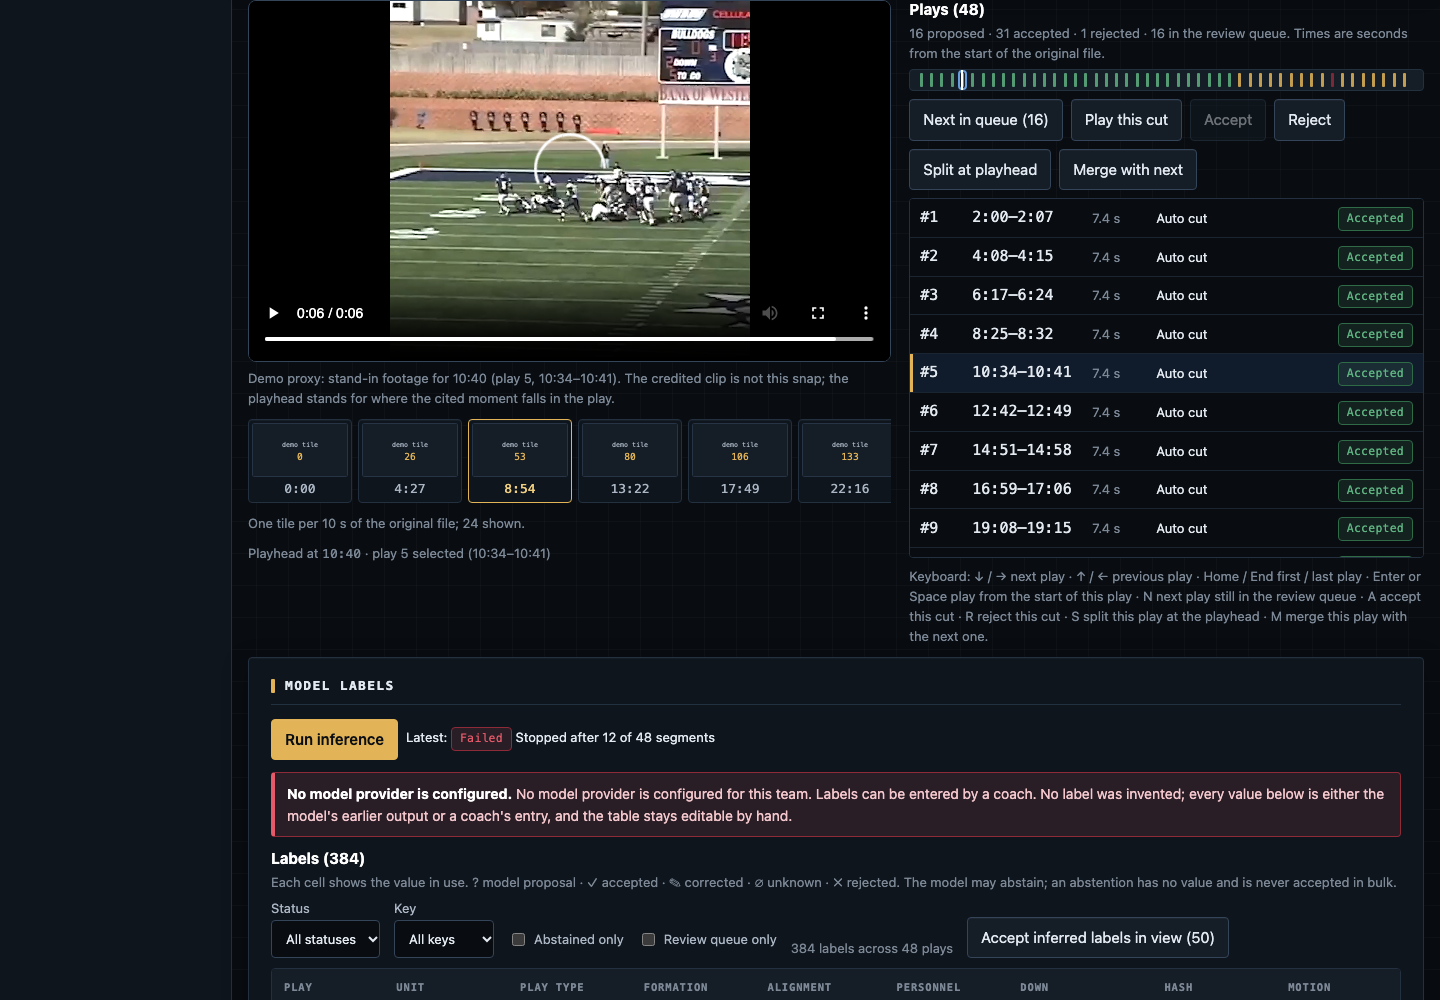
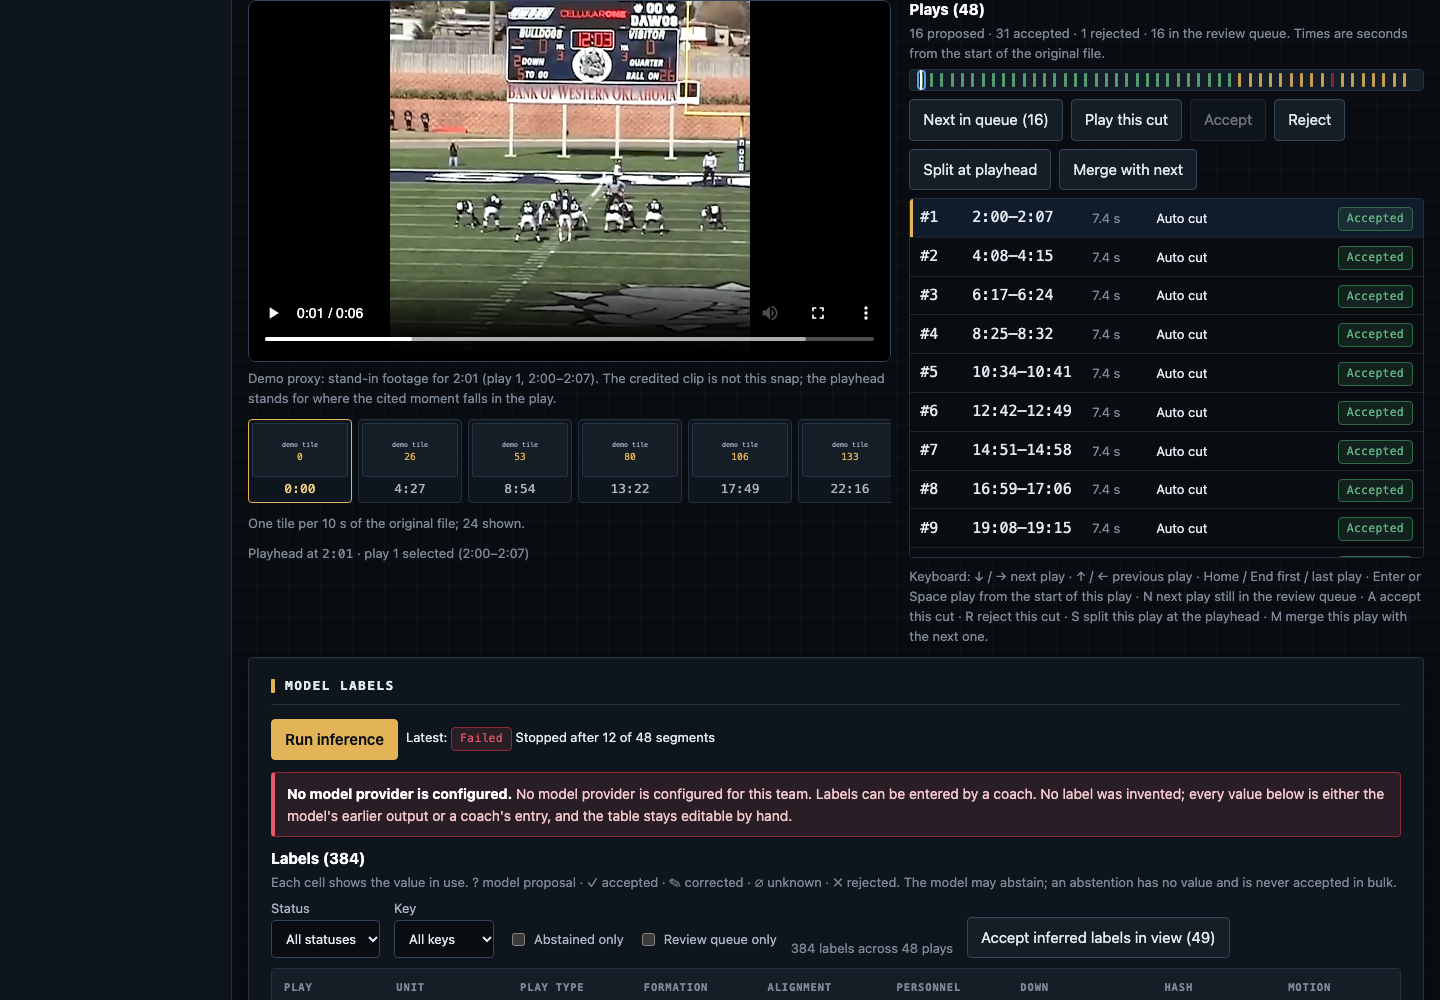
OC-11 HC-16 OC-15 PC-01 HC-15: evidence cites label-backed plays and selects the cut; Submit waits for Add-field text
Round-2 follow-ups on iteration-1 surfaces.

OC-11: seeded scouting evidence now cites only plays whose seeded labels
support the claim on the finding's basis (reviewed labels for reviewed-only
findings), names the supporting labels in the link note and lists the plays
in includedSegmentIds; play 7's formation is accepted by the coordinator so
two reviewed trips plays exist; the 12-personnel finding becomes an
11-personnel finding, which is what the reviewed plays show. The defensive
and special-teams findings have no labeled plays in the seed and now read
"No supporting play on file" instead of citing unlabeled plays.

HC-16 OC-15 PC-01: following any evidence link, frame timestamp or
scouting ?t= selects the play that contains the cited time, so Accept,
Reject and Split act on the play being looked at.

HC-15: Submit for review stays disabled while text is still in an Add field
and says why; HC-07 copy: routing to the existing draft no longer shows
"Draft created".

Tests updated for the new seed (bulk-accept 49, evidence links 2:01 / play 1,
label-support rule per finding) and the seek selection; evidence screenshots
regenerated with the updated walk.

diff --git a/apps/web/src/tests/iteration1/evidenceLinks.test.tsx b/apps/web/src/tests/iteration1/evidenceLinks.test.tsx
@@ -40,6 +40,26 @@ describe('mechanism 2 · evidence links land on the cited snap', () => {
     }
     // The scouting cards' supporting and contrary examples all cite a seeded play: none is between plays.
     for (const f of demo.findings) for (const e of [...f.supportingEvidence, ...f.contraryEvidence]) expect(segmentAt(demo.segments, e.atSec), `${f.id} ${e.atSec}`).not.toBeNull();
+    // OC-11: a cited play carries seeded labels that support the claim on the finding's basis, and is listed as included.
+    const labelOf = (segmentId: string, key: string) => demo.labels.find((l) => l.segmentId === segmentId && l.key === key)!;
+    const reviewed = (l: { accepted: { status: string } }) => l.accepted.status === 'accepted' || l.accepted.status === 'corrected';
+    const support: Record<string, (segmentId: string, contrary: boolean) => boolean> = {
+      'f-1': (id) => reviewed(labelOf(id, 'formation_family')) && /^trips_/.test(labelOf(id, 'formation_family').accepted.value ?? ''),
+      'f-2': (id, contrary) => (labelOf(id, 'play_type').accepted.value ?? labelOf(id, 'play_type').inferred?.value) === (contrary ? 'pass' : 'run'),
+      'f-3': (id) => reviewed(labelOf(id, 'play_type')) && labelOf(id, 'play_type').accepted.value === 'pass' && reviewed(labelOf(id, 'personnel_estimate')) && labelOf(id, 'personnel_estimate').accepted.value === '11',
+    };
+    for (const f of demo.findings) {
+      for (const [list, contrary] of [[f.supportingEvidence, false], [f.contraryEvidence, true]] as const) {
+        for (const e of list) {
+          const play = segmentAt(demo.segments, e.atSec)!;
+          expect(f.includedSegmentIds, `${f.id} lists ${play.id}`).toContain(play.id);
+          expect(support[f.id], `${f.id} has a label rule`).toBeDefined();
+          expect(support[f.id](play.id, contrary), `${f.id} ${contrary ? 'contrary' : 'supporting'} ${play.id} is backed by its labels`).toBe(true);
+        }
+      }
+      // Reviewed-only findings cite only plays with reviewed labels; findings with no labeled plays cite nothing.
+      if (f.unit !== 'offense') expect(f.supportingEvidence.length + f.contraryEvidence.length, `${f.id} has no labeled plays`).toBe(0);
+    }
     // A moment no play covers is refused, never seeked silently.
     expect(planSeek(100, demo.segments, proxy)).toMatchObject({ kind: 'unavailable', mediaSec: null });
     // A real proxy shorter than the request is refused too; one that covers it seeks straight there.
@@ -59,11 +79,13 @@ describe('mechanism 2 · evidence links land on the cited snap', () => {
     expect(within(card(/rotate the safety late/)).getByTestId('no-supporting-play')).toHaveTextContent('No supporting play on file');
     const off = card(/boundary corner plays off coverage/);
     expect(within(off).getByTestId('no-supporting-play')).toHaveTextContent('No supporting play on file');
-    expect(within(off).getByTestId('contrary-evidence')).toHaveTextContent(/Against: 85:33 Press at the goal line/);
-    // The even-front card does have support, as a link to the play.
-    const even = card(/even front/);
-    expect(within(even).queryByTestId('no-supporting-play')).not.toBeInTheDocument();
-    expect(within(even).getByRole('link', { name: '10:40' })).toBeInTheDocument();
+    // No defensive play carries labels in the seed, so no defensive card may look backed (OC-11): the even-front card says so too.
+    expect(within(off).queryByTestId('contrary-evidence')).not.toBeInTheDocument();
+    expect(within(card(/even front/)).getByTestId('no-supporting-play')).toHaveTextContent('No supporting play on file');
+    // Offense findings do have support, as links to plays whose reviewed labels back them.
+    await user.click(screen.getByRole('button', { name: /^Their offense$/ }));
+    await waitFor(() => expect(card(/trips formation on first down/)).toBeInTheDocument());
+    expect(within(card(/trips formation on first down/)).getByTestId('supporting-evidence')).toHaveTextContent(/2:01 Formation trips_right \(accepted\), down 1 \(corrected\)/);
   });
 
   describe('player', () => {
@@ -78,20 +100,21 @@ describe('mechanism 2 · evidence links land on the cited snap', () => {
 
     const video = () => document.querySelector('video') as HTMLVideoElement;
 
-    it('OC-02: the 10:40 even-front link selects play 5 and the player names the moment the clip stands for', async () => {
+    it('OC-02: a scouting evidence link selects the cited play and the player names the moment the clip stands for', async () => {
       const user = userEvent.setup();
-      const { router } = renderApp('/app/scouting?unit=defense&game=game-w10', { signedInAs: OC });
+      const { router } = renderApp('/app/scouting?unit=offense&game=game-w10', { signedInAs: OC });
       await screen.findAllByTestId('finding-count');
-      await user.click(screen.getByRole('link', { name: '10:40' }));
+      // The trips finding's first example: 2:01, inside play 1 (2:00–2:07), whose reviewed formation is trips_right.
+      await user.click(screen.getByRole('link', { name: '2:01' }));
       await waitFor(() => expect(router.state.location.pathname).toBe('/app/film/asset-westmoor-1'));
       await screen.findByTestId('segment-counts');
       const list = screen.getByRole('listbox', { name: /Plays on this film/ });
-      expect(within(list).getByRole('option', { selected: true })).toHaveTextContent(/#5/);
+      expect(within(list).getByRole('option', { selected: true })).toHaveTextContent(/#1/);
       const notice = await screen.findByTestId('seek-notice');
-      await waitFor(() => expect(notice).toHaveTextContent(/stand-in footage for 10:40 \(play 5, 10:34–10:41\)/));
+      await waitFor(() => expect(notice).toHaveTextContent(/stand-in footage for 2:01 \(play 1, 2:00–2:07\)/));
       expect(notice).toHaveTextContent(/credited clip is not this snap/);
-      expect(screen.getByTestId('playhead')).toHaveTextContent(/Playhead at 10:40 · play 5 selected/);
-      // The clip was seeked to the proportional position of 10:40 inside the play, not left at 0:00 or its end.
+      expect(screen.getByTestId('playhead')).toHaveTextContent(/Playhead at 2:01 · play 1 selected/);
+      // The clip was seeked to 1.5 s into the play, not left at 0:00 or its end.
       await waitFor(() => expect(media.play).toHaveBeenCalled());
       expect(video().currentTime).toBeGreaterThan(0);
       expect(video().currentTime).toBeLessThan(LONGEST_CLIP);
@@ -111,7 +134,9 @@ describe('mechanism 2 · evidence links land on the cited snap', () => {
       await user.click(within(panel).getByRole('button', { name: /^10:35–10:38$/ }));
       expect(within(panel).getByTestId('evidence-seek-note')).toHaveTextContent(/Stand-in footage: 10:35 \(play 5, 10:34–10:41\)/);
       expect(screen.getByTestId('seek-notice')).toHaveTextContent(/stand-in footage for 10:35 \(play 5/);
-      expect(screen.getByTestId('playhead')).toHaveTextContent(/Playhead at 10:35/);
+      // Following the evidence also selects play 5, so the cut controls act on the play being looked at (HC-16, OC-15, PC-01).
+      expect(screen.getByTestId('playhead')).toHaveTextContent(/Playhead at 10:35 · play 5 selected \(10:34–10:41\)/);
+      expect(within(screen.getByRole('listbox', { name: /Plays on this film/ })).getByRole('option', { selected: true })).toHaveTextContent(/#5/);
 
       // Play this cut on cut 32: 68:23, not 0:00 of an unrelated clip.
       const list = screen.getByRole('listbox', { name: /Plays on this film/ });

diff --git a/apps/web/src/api/mock/data.ts b/apps/web/src/api/mock/data.ts
@@ -246,6 +246,7 @@ export const segments: PlaySegment[] = Array.from({ length: 48 }, (_, i) => {
 const ev = (atSec: number, note: string | null = null) => ({ assetId: 'asset-westmoor-1', atSec, toSec: null, frameIndex: null, note });
 /** A moment inside seeded play `index` (plays start at 120 s and repeat every 128.5 s; see `segments`). */
 export const snapSec = (index: number, offsetSec = 1.5) => Math.round((120 + (index - 1) * 128.5 + offsetSec) * 10) / 10;
+const seg = (index: number) => `seg-westmoor-1-${index}`;
 
 function finding(
   id: string,
@@ -267,20 +268,30 @@ function finding(
 }
 
 export const findings: ScoutingFinding[] = [
+  // Authored findings (the mock does not compute them). Every cited play carries seeded labels that
+  // support the claim on the stated basis (iteration 1 follow-up, OC-11): a reviewed-only finding
+  // cites only plays whose relevant labels are accepted or corrected. The defensive and special-teams
+  // findings have no labeled plays in the seed and say so on the card.
   finding('f-1', 'opp-westmoor', 'offense', 'formation_frequency', 'Westmoor lines up in a trips formation on first down.', 19, 54, 'reviewed_only', {
-    supportingEvidence: [ev(snapSec(2), 'Trips right, 1st and 10'), ev(snapSec(15), 'Trips left, 1st and 10')],
+    supportingEvidence: [ev(snapSec(1), 'Formation trips_right (accepted), down 1 (corrected)'), ev(snapSec(7), 'Formation trips_right (accepted by the coordinator)')],
+    includedSegmentIds: [seg(1), seg(7)],
     excludedSegmentIds: ['seg-westmoor-1-33', 'seg-westmoor-1-34'], excludedReason: { 'seg-westmoor-1-33': 'formation label not reviewed', 'seg-westmoor-1-34': 'far-side receivers hidden' },
   }),
   finding('f-2', 'opp-westmoor', 'offense', 'tendency_by_situation', 'On second down with 3 yards or fewer to go, Westmoor runs the ball.', 9, 11, 'includes_inferred', {
-    supportingEvidence: [ev(snapSec(19, 2.0), '2nd and 2, inside zone')], contraryEvidence: [ev(snapSec(31, 2.0), '2nd and 1, quick pass to the flat')],
+    supportingEvidence: [ev(snapSec(5, 2.0), 'Play type run (model label, unreviewed)'), ev(snapSec(8, 2.0), 'Play type run (model label, unreviewed)')],
+    contraryEvidence: [ev(snapSec(9, 2.0), 'Play type pass (model label, unreviewed)')],
+    includedSegmentIds: [seg(5), seg(8), seg(9)],
   }),
-  finding('f-3', 'opp-westmoor', 'offense', 'play_type_by_formation', 'From 12 personnel, Westmoor passes.', 6, 17, 'reviewed_only', { supportingEvidence: [ev(snapSec(26))] }),
+  finding('f-3', 'opp-westmoor', 'offense', 'play_type_by_formation', 'From 11 personnel, Westmoor passes.', 6, 17, 'reviewed_only', {
+    supportingEvidence: [ev(snapSec(2), 'Play type pass (accepted), personnel 11 (accepted)'), ev(snapSec(3), 'Play type pass (corrected by the coordinator), personnel 11 (accepted)')],
+    includedSegmentIds: [seg(2), seg(3)],
+  }),
   finding('f-4', 'opp-westmoor', 'offense', 'uncertain', 'Westmoor may favour screens on third and long; the sample is too small to call a tendency.', 3, 7, 'includes_inferred', {
     excludedReason: { 'seg-westmoor-1-41': 'down and distance not visible' }, excludedSegmentIds: ['seg-westmoor-1-41'],
   }),
-  finding('f-5', 'opp-westmoor', 'defense', 'formation_frequency', 'Against 11 personnel, Westmoor shows an even front.', 31, 44, 'reviewed_only', { supportingEvidence: [ev(640.0)] }),
+  finding('f-5', 'opp-westmoor', 'defense', 'formation_frequency', 'Against 11 personnel, Westmoor shows an even front.', 31, 44, 'reviewed_only'),
   finding('f-6', 'opp-westmoor', 'defense', 'strength', 'Westmoor brings a fifth rusher on third and 7 or more.', 8, 13, 'includes_inferred'),
-  finding('f-7', 'opp-westmoor', 'defense', 'weakness', 'The boundary corner plays off coverage against a single receiver.', 14, 22, 'reviewed_only', { contraryEvidence: [ev(snapSec(40), 'Press at the goal line')] }),
+  finding('f-7', 'opp-westmoor', 'defense', 'weakness', 'The boundary corner plays off coverage against a single receiver.', 14, 22, 'reviewed_only'),
   finding('f-8', 'opp-westmoor', 'defense', 'uncertain', 'Westmoor may rotate the safety late toward trips; the camera framing hides the far safety on most of these snaps.', 4, 9, 'includes_inferred', {
     excludedReason: { 'seg-westmoor-1-12': 'far safety outside the frame' }, excludedSegmentIds: ['seg-westmoor-1-12'],
   }),
@@ -531,6 +542,8 @@ function acceptedFor(segmentIndex: number, key: LabelKey, inferred: Label['infer
   }
   // Segment 5: one label rejected as unusable.
   if (i === 4 && key === 'hash') return { value: null, status: 'rejected', byUserId: 'user-analyst', at: REVIEWED_AT };
+  // Segment 7: the coordinator accepted the trips_right formation while building the scouting report.
+  if (i === 6 && key === 'formation_family') return { value: inferred.value, status: 'accepted', byUserId: 'user-oc', at: REVIEWED_AT };
   // Everything else is still the model's proposal.
   return { value: inferred.value, status: 'inferred', byUserId: null, at: null };
 }

diff --git a/apps/web/src/tests/film/assetPage.test.tsx b/apps/web/src/tests/film/assetPage.test.tsx
@@ -168,15 +168,15 @@ describe('asset view: timeline, split/merge, labels, provenance, inference', () 
     const user = userEvent.setup();
     const { router } = renderApp('/app/scouting?unit=offense&game=game-w10', { signedInAs: HEAD });
     await screen.findAllByTestId('finding-count');
-    await user.click(screen.getByRole('link', { name: '4:10' }));
+    await user.click(screen.getByRole('link', { name: '2:01' }));
     await waitFor(() => expect(router.state.location.pathname).toBe('/app/film/asset-westmoor-1'));
-    expect(router.state.location.search).toMatch(/t=250/);
+    expect(router.state.location.search).toMatch(/t=121\.5/);
     await screen.findByTestId('segment-counts');
     const list = screen.getByRole('listbox', { name: /Plays on this film/ });
-    // 250 s is inside play 2 (4:08–4:15): that play is selected and the stand-in clip is mapped onto it.
-    expect(within(list).getByRole('option', { selected: true })).toHaveTextContent(/#2/);
+    // 121.5 s is inside play 1 (2:00–2:07): that play is selected and the stand-in clip is mapped onto it.
+    expect(within(list).getByRole('option', { selected: true })).toHaveTextContent(/#1/);
     await waitFor(() => expect(media.play).toHaveBeenCalled());
-    expect(screen.getByTestId('seek-notice')).toHaveTextContent(/stand-in footage for 4:10 \(play 2, 4:08–4:15\)/);
+    expect(screen.getByTestId('seek-notice')).toHaveTextContent(/stand-in footage for 2:01 \(play 1, 2:00–2:07\)/);
   });
 
   it('film page: a chunked upload runs against the mock, polling shows the chain complete, and the asset appears', async () => {

diff --git a/apps/web/src/pages/PlansPage.tsx b/apps/web/src/pages/PlansPage.tsx
@@ -294,7 +294,12 @@ function PlanBody({
             </>
           ) : null}
           {editable ? (
-            <button type="button" disabled={dirty || submit.status === 'saving'} onClick={() => void submit.run(version)} title={dirty ? 'Save the draft first' : undefined}>
+            <button
+              type="button"
+              disabled={dirty || pendingAddFields > 0 || submit.status === 'saving'}
+              onClick={() => void submit.run(version)}
+              title={dirty ? 'Save the draft first' : pendingAddFields > 0 ? 'Add or clear the text still in an Add field first' : undefined}
+            >
               Submit for review
             </button>
           ) : null}
@@ -312,7 +317,7 @@ function PlanBody({
           <SaveStatus status={save.status} error={save.error} />
           <SaveStatus status={submit.status} error={submit.error} savedText="Submitted for review" />
           <SaveStatus status={approve.status} error={approve.error} savedText="Approved" />
-          <SaveStatus status={newDraft.status} error={newDraft.error} savedText="Draft created" />
+          <SaveStatus status={newDraft.status} error={newDraft.error} savedText={routed ? 'Opened the existing draft' : 'Draft created'} />
         </div>
         {approving && isOverride && (version.status === 'in_review' || version.status === 'draft') ? (
           <form

diff --git a/apps/web/src/tests/iteration1/unsavedWork.test.tsx b/apps/web/src/tests/iteration1/unsavedWork.test.tsx
@@ -75,6 +75,13 @@ describe('mechanism 1 · unsaved-work guard', () => {
     expect(add()).toHaveValue('Gold');
     expect(screen.getByTestId('unsaved-indicator')).toHaveTextContent(/Unsaved changes · 1 Add field not added/);
     expect(screen.queryByRole('button', { name: /^Draft saved$/ })).not.toBeInTheDocument();
+    // Submit cannot quietly drop the text still in the Add field (HC-15): saving the draft alone does not unlock it.
+    expect(screen.getByRole('button', { name: /Submit for review/ })).toBeDisabled();
+    await user.click(screen.getByRole('button', { name: /^Save draft$/ }));
+    await waitFor(() => expect(screen.getByRole('button', { name: /^Draft saved$/ })).toBeInTheDocument());
+    expect(add()).toHaveValue('Gold');
+    expect(screen.getByRole('button', { name: /Submit for review/ })).toBeDisabled();
+    expect(screen.getByRole('button', { name: /Submit for review/ })).toHaveAttribute('title', 'Add or clear the text still in an Add field first');
   });
 
   it('PC-05: an unposted Formations comment and its section are back after following film and returning', async () => {

diff --git a/apps/web/src/tests/film/review.test.ts b/apps/web/src/tests/film/review.test.ts
@@ -31,9 +31,10 @@ describe('§14.5 bulk-accept rule', () => {
     expect(plan.keys).toEqual(['play_type']);
   });
 
-  it('matches the demo data: 50 acceptable labels, every abstention skipped', () => {
+  it('matches the demo data: 49 acceptable labels, every abstention skipped', () => {
+    // 12 plays × 8 keys minus abstentions, the 4 fully reviewed plays, play 5's rejected hash and play 7's accepted formation.
     const plan = planBulkAccept(demo.labels);
-    expect(plan.eligible.length).toBe(50);
+    expect(plan.eligible.length).toBe(49);
     expect(plan.eligible.every((l) => l.inferred && !l.inferred.abstained && l.accepted.status === 'inferred')).toBe(true);
     expect(demo.labels.filter((l) => l.inferred?.abstained).every((l) => !isBulkAcceptable(l))).toBe(true);
   });

diff --git a/apps/web/src/pages/AssetPage.tsx b/apps/web/src/pages/AssetPage.tsx
@@ -138,6 +138,8 @@ export function AssetPage() {
       if (plan.mediaSec !== null) {
         player.current?.seekTo(plan.mediaSec, play);
         setCurrentTime(sec);
+        // The cut controls act on the play being looked at: following evidence selects its play (HC-16, OC-15, PC-01).
+        if (plan.segment) setActiveId(plan.segment.id);
       }
       setSeekPlan(plan);
       return plan;

diff --git a/docs/team/briefs/I1-evidence/README.md b/docs/team/briefs/I1-evidence/README.md
@@ -2,12 +2,12 @@
 
 One screenshot per mechanism from a walk of the round-1 reviewer sequences against the
 web app in mock mode (`npm run dev -w apps/web`, `VITE_API_MODE=mock`, demo head-coach
-account), captured on 2026-11-21 on this branch. Every record shown is fictional demo data.
+account), captured on this branch (regenerated 2026-11-22 after the round-2 follow-ups). Every record shown is fictional demo data.
 
 | File | Mechanism | Sequence walked | What the screenshot shows |
 | --- | --- | --- | --- |
 | `m1-unsaved-work-guard-HC-01.png` | 1 · unsaved-work guard | HC-01: add a third objective to offense v2, switch to Special teams without Save draft, switch back | Objectives (3) with the Sunday protection check still listed, **Save draft** enabled, the "Unsaved changes" tag and a Discard link; the page no longer says "Draft saved". |
-| `m2-evidence-links-OC-02.png` | 2 · evidence links | OC-02 / HC-05: on Opponent Scouting (Westmoor defense) follow the 10:40 link under the even-front finding | Play 5 (10:34–10:41) selected, the playhead reading 10:40, and the player caption "Demo proxy: stand-in footage for 10:40 (play 5, 10:34–10:41). The credited clip is not this snap…". |
+| `m2-evidence-links-OC-02.png` | 2 · evidence links | OC-02 / HC-05: on Opponent Scouting (Westmoor offense) follow the 2:01 link under the trips finding (after the OC-11 seed fix the defensive cards, which have no labeled plays, say "No supporting play on file") | Play 1 (2:00–2:07) selected, the playhead reading 2:01, and the player caption "Demo proxy: stand-in footage for 2:01 (play 1, 2:00–2:07). The credited clip is not this snap…". |
 | `m3-approval-history-HC-03.png` | 3 · approval history | HC-03: head coach approves offense v2 with an override reason, then selects the superseded v1 | v1 still shows "Approved Thu, Oct 22, 5:10 PM by Marcus Ellery" and adds "Superseded … by v2 (approved by Dana Whitlock, head-coach override)". |
 | `m4-mock-persistence-OC-01-PC-04.png` | 4 · mock persistence | OC-01 / PC-04: reload the browser after the approval (v2 stays approved), open Settings, press Reset demo data | The Demo data card ("kept across reloads; last saved …") behind the confirmation that lists exactly what a reset clears and says sign-in and unsaved drafts are kept. |
 

diff --git a/apps/web/README.md b/apps/web/README.md
@@ -152,7 +152,11 @@ The play list is one tab stop (`role="listbox"` with `aria-activedescendant`).
   every seek as stand-in footage for the cited play. Its thumbnail tiles are generated SVGs
   that name their own index.
 - The 12 plays with model output and their provenance are authored demo records; the
-  findings on the scouting page are authored, not computed.
+  findings on the scouting page are authored, not computed. Each offense finding cites only
+  plays whose seeded labels support it on its review basis (reviewed labels for a
+  reviewed-only finding) and lists them in `includedSegmentIds`; the defensive and
+  special-teams findings have no labeled plays in the seed and say "No supporting play on
+  file" (round-2 follow-up OC-11).
 - Hashing in a Web Worker needs a browser; under vitest the hasher is injected.
 
 #### Proposed contract additions (for Backend)
